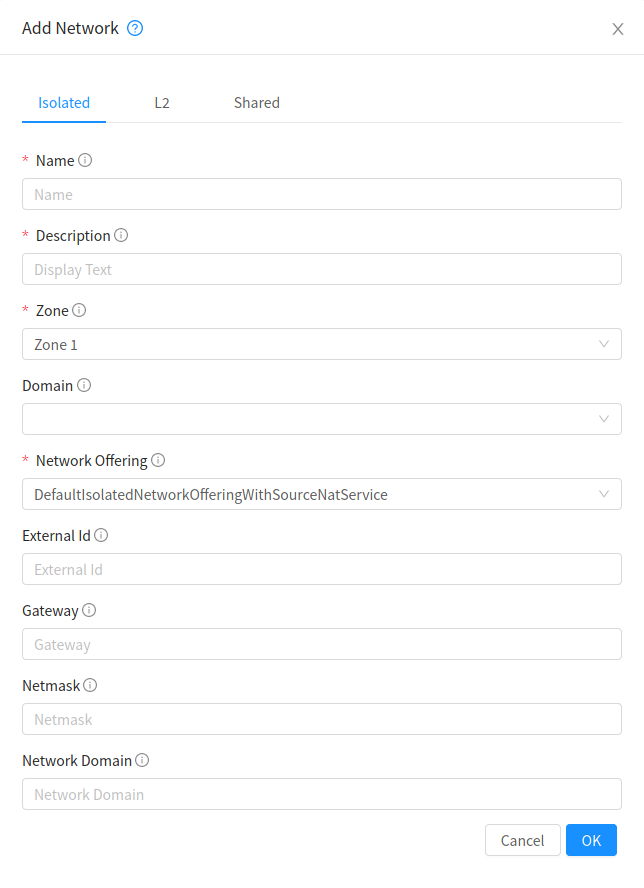
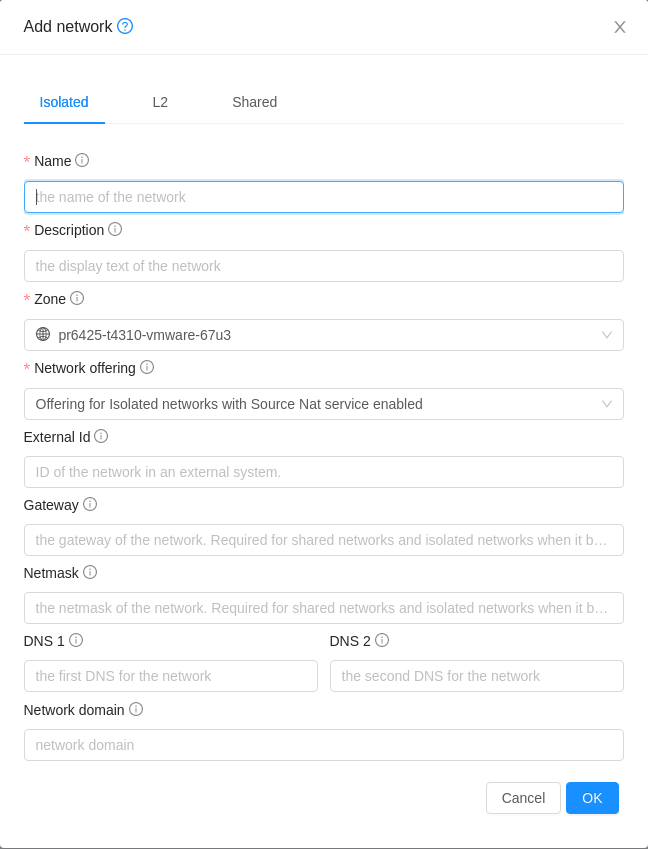
network: custom dns
https://github.com/apache/cloudstack/pull/6425

diff --git a/source/adminguide/networking/advanced_zone_config.rst b/source/adminguide/networking/advanced_zone_config.rst
@@ -56,6 +56,10 @@ configure the base guest network:
    -  **Netmask**: The netmask in use on the subnet the guest instances
       will use.
 
+   -  **DNS**: A set of custom DNS that will be used by the guest network. If not provided then DNS specified for the zone will be used. Available only when the selected network offering supports DNS service.
+
+   -  **IPv6 DNS**: A set of custom IPv6 DNS that will be used by the guest network. If not provided then IPv6 DNS specified for the zone will be used. Available only when the selected network offering is IPv6 enabled and supports DNS service.
+
    -  **Network Domain**: A custom DNS suffix at the level of a network. If you
       want to assign a special domain name to the guest VM network, specify a
       DNS suffix.
@@ -146,6 +150,8 @@ Configuring a Shared Guest Network
    -  **IP Range**: A range of IP addresses that are accessible from the
       Internet and are assigned to the guest VMs.
 
+   -  **DNS**: A set of custom DNS that will be used by the network. If not provided then DNS specified for the zone will be used. Available only when the selected network offering supports DNS service.
+
       If one NIC is used, these IPs should be in the same CIDR in the
       case of IPv6.
 
@@ -153,6 +159,8 @@ Configuring a Shared Guest Network
       subnet. This is the CIDR that describes the IPv6 addresses in use
       in the guest networks in this zone. To allot IP addresses from
       within a particular address block, enter a CIDR.
+
+   -  **IPv6 DNS**: A set of custom IPv6 DNS that will be used by the network. If not provided then IPv6 DNS specified for the zone will be used. Available only when the selected network offering supports DNS service.
 
    -  **Network Domain**: A custom DNS suffix at the level of a network.
       If you want to assign a special domain name to the guest VM
